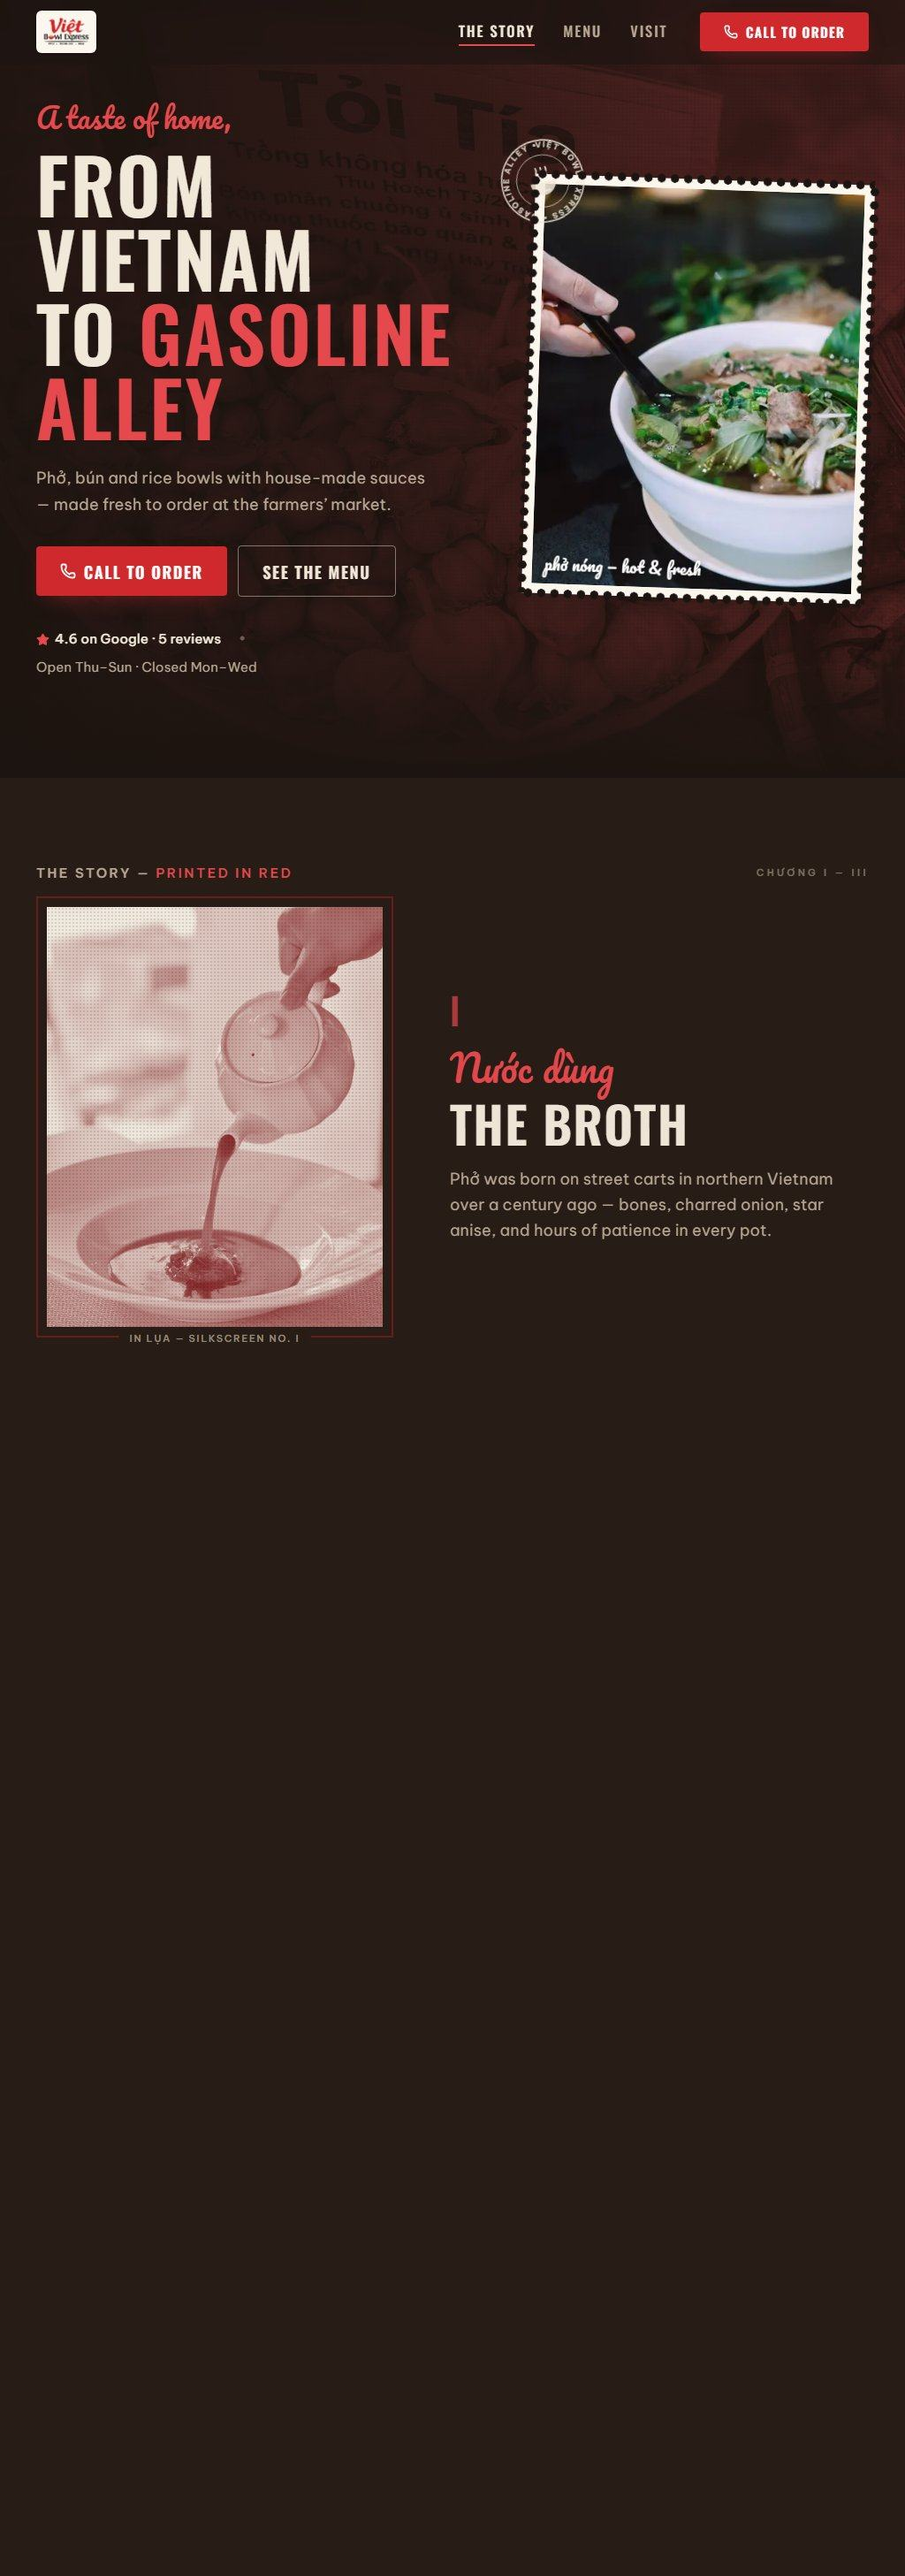
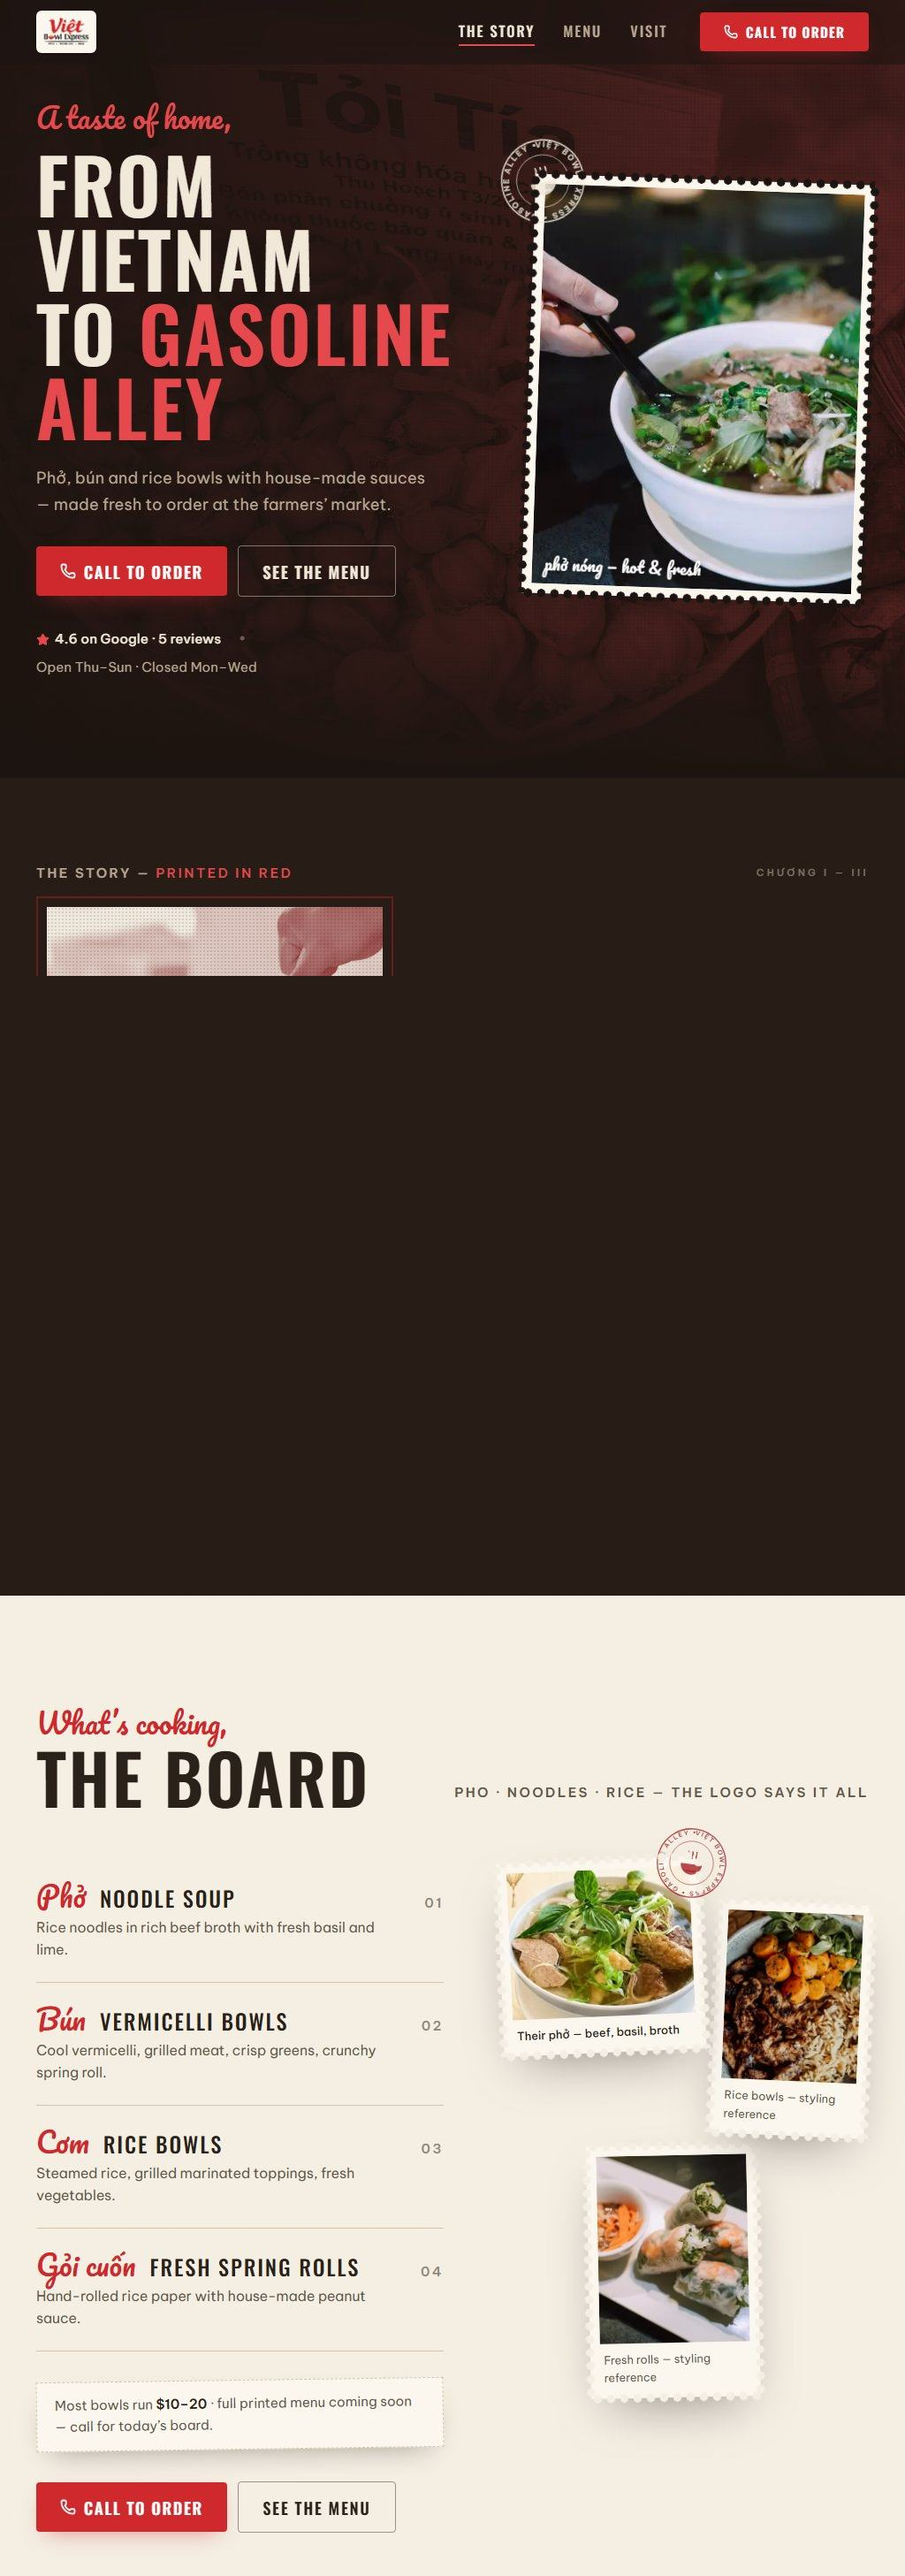
feat(work): homepage runs both roofing builds; case-studies trimmed to the five strongest
- Homepage card 02 is now the Milestone client rebuild (concept + client,
  same trade, same standard); Mane stays on the case-studies page.
- Case-studies cut to 2 sliders + 3 cards: 22K Nails removed, the concept
  section removed, Luxe Tea removed from the site entirely (assets deleted).
- Viet Bowl scroll strip re-stitched from the raw capture to cut the blank
  band its pinned GSAP section left in the full-page screenshot.
- Counts, FAQ (visible + schema verbatim), llms.txt and CLAUDE.md all synced.

Claude-Session: https://claude.ai/code/session_01MWb9DZVKr8HAKQmzS2gAKB

diff --git a/case-studies.html b/case-studies.html
@@ -49,7 +49,7 @@
 <link rel="stylesheet" href="/assets/styles.css" />
 <link rel="stylesheet" href="/assets/enhance.css" />
 
-<!-- Page-local CSS: the rebuild sliders, the concept strip, and small fit-and-finish.
+<!-- Page-local CSS: the rebuild sliders and small fit-and-finish.
      Everything else reuses the proof/FAQ/CTA systems from styles.css + enhance.css. -->
 <style>
   /* ---- (01) before/after rebuild rows ---- */
@@ -72,17 +72,6 @@
     font-family: var(--mono); font-size: 11px; letter-spacing: 0.04em;
     color: var(--mute);
   }
-  /* ---- (03) concept strip ---- */
-  .concept-grid {
-    display: grid;
-    grid-template-columns: 1fr 1fr;
-    gap: clamp(24px, 3.5vw, 48px);
-    margin-top: 12px;
-  }
-  .concept-card .proof-browser { margin-bottom: 20px; }
-  /* concept cards borrow .proof-info typography at a half-width-friendly size */
-  .concept-card .proof-info h3 { font-size: clamp(24px, 2.4vw, 34px); margin: 12px 0 8px; }
-  .concept-card .proof-info p { font-size: 15px; }
   /* ---- honesty line under the page head ---- */
   .head-honesty {
     margin-top: 22px; max-width: 68ch;
@@ -91,7 +80,6 @@
   @media (max-width: 960px) {
     .case-ba { grid-template-columns: 1fr; }
     .case-ba.flip .case-ba-media { order: 0; }
-    .concept-grid { grid-template-columns: 1fr; }
   }
 </style>
 
@@ -131,7 +119,7 @@
           "name": "Are these real client projects?",
           "acceptedAnswer": {
             "@type": "Answer",
-            "text": "Two are — the builds marked Client: one live for a salon in BC, one rebuild nearing launch for a roofing firm. The rest are demo builds — complete, working websites we designed around real local businesses on our own initiative, to show the standard we ship at — and concept builds on fictional or concept brands. Either way, we don't name a business here without the owner's permission."
+            "text": "Two are — the builds marked Client: one live for a salon in BC, one rebuild nearing launch for a roofing firm. The rest are demo builds — complete, working websites we designed around real local businesses on our own initiative, to show the standard we ship at. Either way, we don't name a business here without the owner's permission."
           }
         },
         {
@@ -203,13 +191,13 @@
   <div class="hero-orb" style="left:-14%; right:auto; top:18%;" data-parallax="0.12" aria-hidden="true"></div>
   <span class="eyebrow">Case studies · Proof, not promises</span>
   <h1 class="reveal-mask"><span>The work,<br/><em class="it">up close.</em></span></h1>
-  <p class="lede reveal">Eight full builds, captured exactly as they ship. Two are before-and-afters. Four replaced no website at all. Every screen on this page is a site we actually designed and built.</p>
-  <p class="tiny-mono head-honesty reveal">Every card is labelled for what it is: client builds we were hired to ship, demos we designed on our own initiative around real businesses, and concept brands. We never publish a business's name without its owner's permission.</p>
+  <p class="lede reveal">Five full builds, captured exactly as they ship. Two are before-and-afters. Three replaced no website at all. Every screen on this page is a site we actually designed and built.</p>
+  <p class="tiny-mono head-honesty reveal">Every card is labelled for what it is: client builds we were hired to ship, and demos we designed on our own initiative around real businesses. We never publish a business's name without its owner's permission.</p>
 
   <div class="page-head-meta">
-    <div><span class="tiny-mono">Builds on this page</span><span class="v">08</span></div>
+    <div><span class="tiny-mono">Builds on this page</span><span class="v">05</span></div>
     <div><span class="tiny-mono">Before &amp; afters</span><span class="v">02</span></div>
-    <div><span class="tiny-mono">Built from zero</span><span class="v">04</span></div>
+    <div><span class="tiny-mono">Built from zero</span><span class="v">03</span></div>
     <div><span class="tiny-mono">Every build</span><span class="v">From $499</span></div>
   </div>
 </header>
@@ -310,47 +298,15 @@
     </div>
 
     <h2 class="display reveal" id="demos-title" style="max-width: 22ch; margin-bottom: 18px;">
-      Four niches, four <span class="it">signatures</span>.
+      Three niches, three <span class="it">signatures</span>.
     </h2>
     <p class="lede reveal" style="max-width: 54ch;">
       None of these businesses had a website — just booking links, map pins and camera rolls. Each build is designed from the business's real material — its photography, its menu, its room — because the same design twice isn't custom.
     </p>
 
-    <!-- Demo 01 — Hamilton nail studio -->
+    <!-- Build 01 — North York café -->
     <article class="proof reveal">
       <div class="proof-devices" data-cursor="build 01">
-        <div class="proof-browser">
-          <div class="proof-bar"><i></i><i></i><i></i><span class="url">nailstudio.demo</span></div>
-          <div class="proof-screen">
-            <picture>
-              <source srcset="/assets/work/nailstudio-scroll.webp" type="image/webp" />
-              <img class="proof-scroll-img" src="/assets/work/nailstudio-scroll.jpg" alt="Demo build for a Hamilton nail studio — the full home page, shown scrolling live" width="1024" height="2914" loading="lazy" />
-            </picture>
-          </div>
-          <span class="proof-live-tag"><span class="live-dot" aria-hidden="true"></span> Demo build · live</span>
-        </div>
-        <div class="proof-phone">
-          <picture>
-            <source srcset="/assets/work/nailstudio-phone.webp" type="image/webp" />
-            <img src="/assets/work/nailstudio-phone.jpg" alt="The same nail-studio demo on a phone" width="390" height="844" loading="lazy" />
-          </picture>
-        </div>
-      </div>
-      <div class="proof-info">
-        <span class="work-tag">Demo build · Nail studio · Hamilton · No website before</span>
-        <h3>Fine work, <span class="it">close up</span>.</h3>
-        <p>A salon doing hand-painted nail art had no website. Just a booking link and a camera roll full of proof. The demo treats that proof like jewellery: macro photography in almond-arch frames, gold hairlines on ivory, a gallery that scrolls sideways like a wall of art.</p>
-        <ul class="proof-points">
-          <li>Almond-arch image masks shaped like the work itself</li>
-          <li>A pinned horizontal art wall, scrubbed by scroll</li>
-          <li>Booking within reach at every depth of the page</li>
-        </ul>
-      </div>
-    </article>
-
-    <!-- Demo 02 — North York café -->
-    <article class="proof flip reveal">
-      <div class="proof-devices" data-cursor="build 02">
         <div class="proof-browser">
           <div class="proof-bar"><i></i><i></i><i></i><span class="url">espressobar.demo</span></div>
           <div class="proof-screen">
@@ -380,9 +336,9 @@
       </div>
     </article>
 
-    <!-- Build 03 — BC interior hair salon (live client build) -->
-    <article class="proof reveal">
-      <div class="proof-devices" data-cursor="build 03">
+    <!-- Build 02 — BC interior hair salon (live client build) -->
+    <article class="proof flip reveal">
+      <div class="proof-devices" data-cursor="build 02">
         <div class="proof-browser">
           <div class="proof-bar"><i></i><i></i><i></i><span class="url">live · launched aug 2026</span></div>
           <div class="proof-screen">
@@ -412,9 +368,9 @@
       </div>
     </article>
 
-    <!-- Demo 04 — Alberta market kitchen -->
-    <article class="proof flip reveal">
-      <div class="proof-devices" data-cursor="build 04">
+    <!-- Build 03 — Alberta market kitchen -->
+    <article class="proof reveal">
+      <div class="proof-devices" data-cursor="build 03">
         <div class="proof-browser">
           <div class="proof-bar"><i></i><i></i><i></i><span class="url">noodlestall.demo</span></div>
           <div class="proof-screen">
@@ -446,63 +402,10 @@
   </div>
 </section>
 
-<!-- ============================ 03 · WHERE IT STARTED ============================ -->
-<section class="section-pad tight" id="concepts" data-atm="0.25" aria-labelledby="concepts-title">
-  <div class="container">
-    <div class="section-label">
-      <span class="num">(03)</span>
-      <span class="kind">Where it started</span>
-    </div>
-
-    <h2 class="display reveal" id="concepts-title" style="max-width: 22ch; margin-bottom: 18px;">
-      The concept <span class="it">builds</span>.
-    </h2>
-    <p class="lede reveal" style="max-width: 54ch; margin-bottom: 48px;">
-      Before the demos there were two concept builds — a fictional roofing crew and a Midtown tea shop — made to prove the studio's standard with no client attached. They still hold up.
-    </p>
-
-    <div class="concept-grid">
-      <article class="concept-card reveal">
-        <div class="proof-browser">
-          <div class="proof-bar"><i></i><i></i><i></i><span class="url">northlineroofing.demo</span></div>
-          <div class="proof-screen">
-            <picture>
-              <source srcset="/assets/work/northline-scroll.webp" type="image/webp" />
-              <img class="proof-scroll-img" src="/assets/work/northline-scroll.jpg" alt="Concept build for a fictional Toronto roofing company, shown scrolling live" width="1024" height="2914" loading="lazy" />
-            </picture>
-          </div>
-        </div>
-        <div class="proof-info">
-          <span class="work-tag">Concept build · Roofing · Fictional brand</span>
-          <h3>The obvious local <span class="it">choice</span>.</h3>
-          <p>How we'd rebuild a referral-only roofer into the obvious local choice — homeowner language, crew-first photography, and a quote path that never leaves the screen.</p>
-        </div>
-      </article>
-
-      <article class="concept-card reveal">
-        <div class="proof-browser">
-          <div class="proof-bar"><i></i><i></i><i></i><span class="url">luxetea.demo</span></div>
-          <div class="proof-screen">
-            <picture>
-              <source srcset="/assets/work/luxe-scroll.webp" type="image/webp" />
-              <img class="proof-scroll-img" src="/assets/work/luxe-scroll.jpg" alt="Concept build for a Toronto tea shop, shown scrolling live" width="1024" height="2914" loading="lazy" />
-            </picture>
-          </div>
-        </div>
-        <div class="proof-info">
-          <span class="work-tag">Concept build · Tea &amp; coffee · Toronto</span>
-          <h3>Leads with <span class="it">appetite</span>.</h3>
-          <p>How we'd give a Midtown tea shop an appetite-first storefront — menu photographed and honestly priced, with the details people actually ask about pinned to the page.</p>
-        </div>
-      </article>
-    </div>
-  </div>
-</section>
-
-<!-- ============================ 04 · FAQ ============================ -->
+<!-- ============================ 03 · FAQ ============================ -->
 <section class="container faq-section section-pad tight" aria-labelledby="faq-title">
   <div class="section-label">
-    <span class="num">(04)</span>
+    <span class="num">(03)</span>
     <span class="kind">Straight answers</span>
   </div>
   <div class="faq-grid">
@@ -512,7 +415,7 @@
     <div class="faq-list reveal">
       <details>
         <summary>Are these real client projects?</summary>
-        <p>Two are — the builds marked Client: one live for a salon in BC, one rebuild nearing launch for a roofing firm. The rest are demo builds — complete, working websites we designed around real local businesses on our own initiative, to show the standard we ship at — and concept builds on fictional or concept brands. Either way, we don't name a business here without the owner's permission.</p>
+        <p>Two are — the builds marked Client: one live for a salon in BC, one rebuild nearing launch for a roofing firm. The rest are demo builds — complete, working websites we designed around real local businesses on our own initiative, to show the standard we ship at. Either way, we don't name a business here without the owner's permission.</p>
       </details>
       <details>
         <summary>Why don't you name the businesses in the demos?</summary>

diff --git a/index.html b/index.html
@@ -333,7 +333,7 @@
       See it <span class="it">for yourself.</span>
     </h2>
     <p class="lede reveal" style="max-width: 52ch;">
-      Two builds in very different niches — a roofing crew and a small-town salon. One is the concept build that started the studio; the other is a client build that's live today. Both fully working, both built to the same standard, both yours to judge.
+      Two roofing builds, two very different jobs. One is the concept build that set the studio's standard; the other is a real client rebuild that's nearing launch. Both fully working, both yours to judge — and the rest of the work is one click away.
     </p>
 
     <!-- Build 01 — Northline Roofing (fictional brand; concept build) -->
@@ -368,34 +368,34 @@
       </div>
     </article>
 
-    <!-- Build 02 — BC interior hair salon (live client build) -->
+    <!-- Build 02 — Muskoka roofing contractor (client rebuild) -->
     <article class="proof flip reveal">
       <div class="proof-devices" data-cursor="build 02">
         <div class="proof-browser">
-          <div class="proof-bar"><i></i><i></i><i></i><span class="url">live · launched aug 2026</span></div>
+          <div class="proof-bar"><i></i><i></i><i></i><span class="url">client rebuild · nearing launch</span></div>
           <div class="proof-screen">
             <picture>
-              <source srcset="/assets/work/salon-scroll.webp" type="image/webp" />
-              <img class="proof-scroll-img" src="/assets/work/salon-scroll.jpg" alt="A client build for a BC hair salon, shown scrolling live" width="1024" height="2914" loading="lazy" />
+              <source srcset="/assets/work/roofing-muskoka-scroll.webp" type="image/webp" />
+              <img class="proof-scroll-img" src="/assets/work/roofing-muskoka-scroll.jpg" alt="A client rebuild for a Muskoka roofing company, shown scrolling live" width="1024" height="2914" loading="lazy" />
             </picture>
           </div>
-          <span class="proof-live-tag"><span class="live-dot" aria-hidden="true"></span> Client build · live</span>
+          <span class="proof-live-tag"><span class="live-dot" aria-hidden="true"></span> Client rebuild</span>
         </div>
         <div class="proof-phone">
           <picture>
-            <source srcset="/assets/work/salon-phone.webp" type="image/webp" />
-            <img src="/assets/work/salon-phone.jpg" alt="The same salon client build on a phone — a legible mobile layout" width="390" height="844" loading="lazy" />
+            <source srcset="/assets/work/roofing-muskoka-phone.webp" type="image/webp" />
+            <img src="/assets/work/roofing-muskoka-phone.jpg" alt="The same roofing client rebuild on a phone — a legible mobile layout" width="390" height="844" loading="lazy" />
           </picture>
         </div>
       </div>
       <div class="proof-info">
-        <span class="work-tag">Client build · Hair salon · Keremeos, BC</span>
-        <h3>Forty years, <span class="it">finally online</span>.</h3>
-        <p>A two-chair salon with four decades behind it and no web presence at all. The build keeps the room's character — the slate-blue walls, the wood, the station clock — and puts a working phone number a thumb's reach from every screen.</p>
+        <span class="work-tag">Client rebuild · Roofing · Muskoka</span>
+        <h3>From dated to <span class="it">dominant</span>.</h3>
+        <p>A veteran roofing crew was carrying a website from another era — grey panels, broken image icons, a template shrug. The rebuild leads with what they actually have: standing-seam metalwork over the lakes, photographed like it deserves.</p>
         <ul class="proof-points">
-          <li>Palette sampled from the salon's actual walls</li>
-          <li>Vintage trade-sign typography, not spa clichés</li>
-          <li>Call and book paths built for a phone in a pocket</li>
+          <li>Full-bleed jobsite photography as the hero, not stock</li>
+          <li>Every roof type gets its own page and its own proof</li>
+          <li>Drag the before-and-after on the case studies page</li>
         </ul>
       </div>
     </article>

diff --git a/CLAUDE.md b/CLAUDE.md
@@ -30,8 +30,8 @@ python tools/indexnow.py      # re-pings Bing/Yandex. Google is separate (Search
 - **Client status (owner-confirmed 2026-08-11): two real engagements** — Mane Obsession (delivered, live at maneobsessionsalon.ca) and Milestone Roofing (rebuild nearing launch). The site may describe them as client builds but **still never names them** — names go on the site only **with the owner's written permission**. Everything else stands: no testimonials, no logos, no "trusted by N", no client counts, nothing invented.
 - **Never add `AggregateRating` or `Review` schema.** Google disallows self-serving review markup on `LocalBusiness`/`Organization`; it risks a manual action. **Reviews live on the Google Business Profile**, where stars appear in the map pack with no markup at all.
 - **Never invent a statistic, percentage, result, award, or certification.** The on-page figures (97/100 Lighthouse, 99.9% uptime, $1,840/mo) are **targets and illustrative estimates** and already carry those qualifiers — keep them.
-- The two original portfolio pieces are **concept builds**, not client work: **Northline Roofing** (a fictional brand) and **Luxe Tea**. Never imply they were commissioned. Never put a real company's name on them — the original carried a real Toronto roofer's identity and had to be scrubbed.
-- `/case-studies` (added Aug 2026) also shows **demo builds** and one **Studio build**, screenshotted from `Documents/Webrivio/client-sites`. The rule there: real business names may appear **inside screenshots only** — never in copy, alt text, meta, schema, or asset filenames (filenames are industry-neutral: `cpg-*`, `nailstudio-*`, `cafe-*`, `noodlestall-*`, `salon-*`, `roofing-muskoka-*`, `lawfirm-*`). URL-bar chrome uses fake `*.demo` domains. Never use the `avivar2` demo (that is the scrubbed roofer).
+- **Northline Roofing** (a fictional brand) is the one remaining **concept build**, shown on the home page and the roofing guide. Never imply it was commissioned. Never put a real company's name on it — the original carried a real Toronto roofer's identity and had to be scrubbed. **Luxe Tea was removed from the site entirely (Aug 2026)** — do not bring it back.
+- `/case-studies` (added Aug 2026) shows **client builds** (the Muskoka roofing rebuild, the BC salon) and **demo builds**, screenshotted from `Documents/Webrivio/client-sites`. The rule there: real business names may appear **inside screenshots only** — never in copy, alt text, meta, schema, or asset filenames (filenames are industry-neutral: `cafe-*`, `noodlestall-*`, `salon-*`, `roofing-muskoka-*`, `lawfirm-*`). URL-bar chrome uses fake `*.demo` domains or plain status text. Never use the `avivar2` demo (that is the scrubbed roofer), and never re-add Stush Foods or 22K Nails (owner removed them).
 
 ---
 
